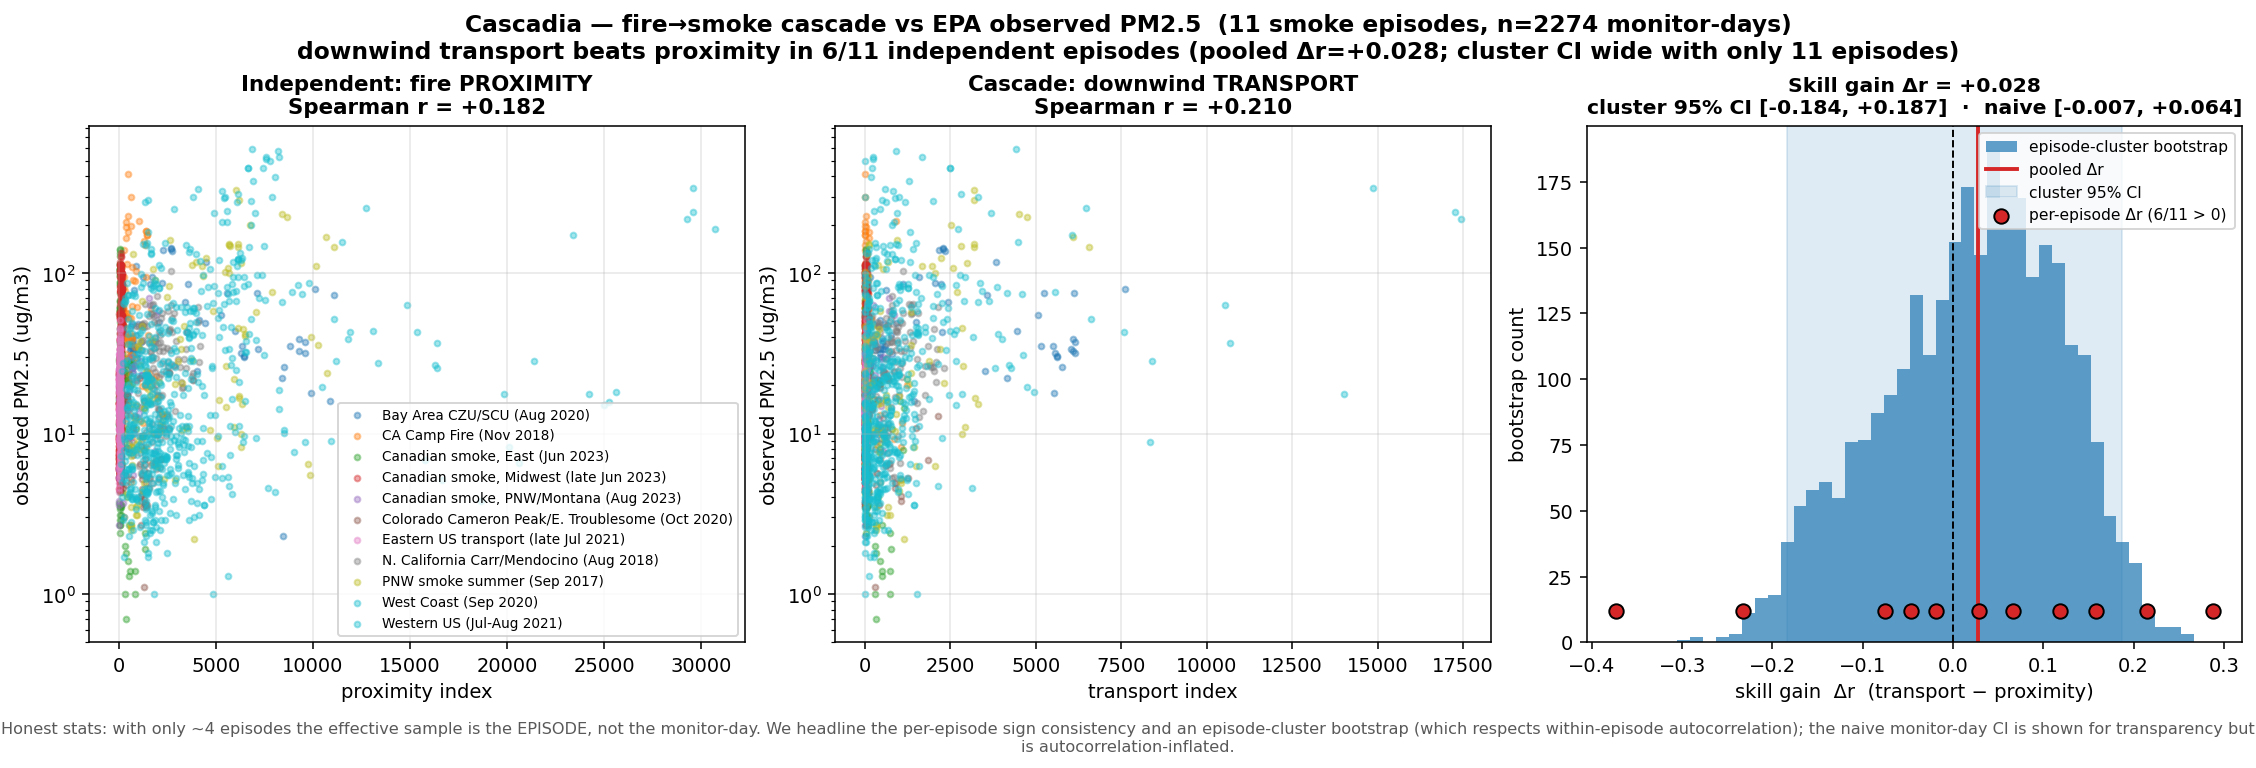
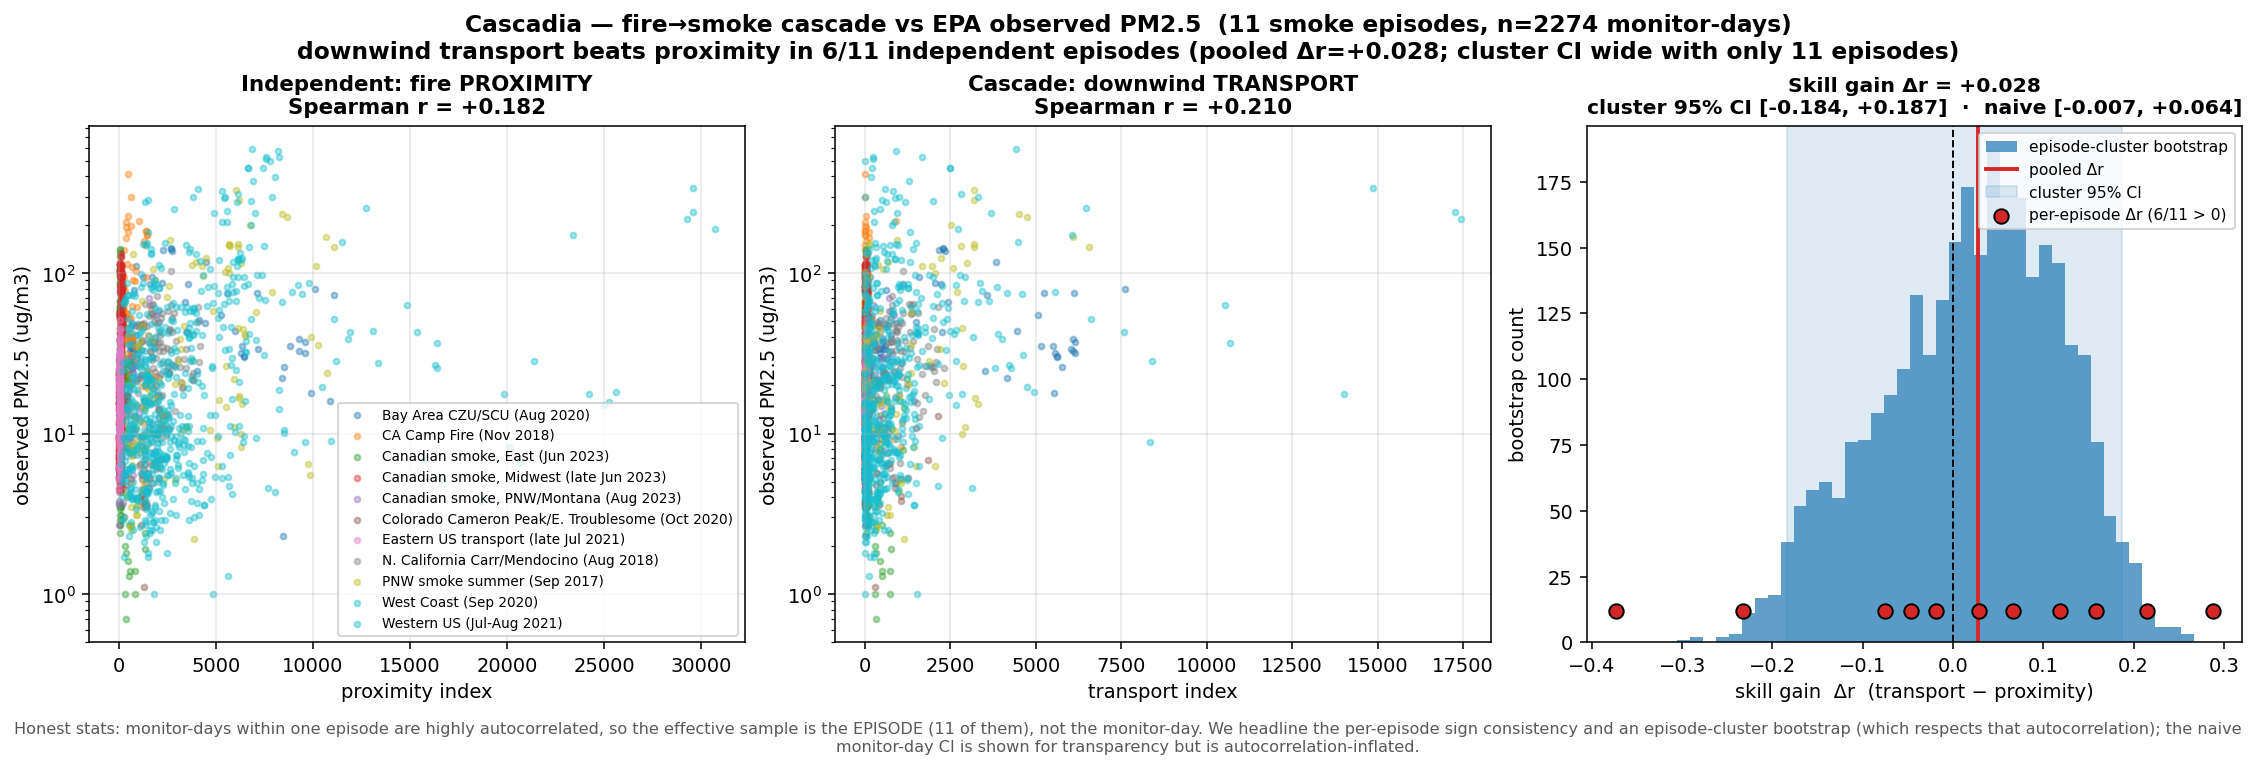
Cascade figure: dynamic episode count in caption (was hardcoded ~4, now 11)

Changed region(s): [[0.0, 0.9375, 1.0, 1.0]]

diff --git a/cascadia/skill_cascade.py b/cascadia/skill_cascade.py
@@ -238,10 +238,11 @@ def _render(df, res, boot_clu, deltas_ev, out_path):
     fig.suptitle(f"Cascadia — fire→smoke cascade vs EPA observed PM2.5  "
                  f"({res['n_events']} smoke episodes, n={res['n']} monitor-days)\n{head}",
                  fontsize=12, weight="bold")
-    fig.text(0.5, -0.02, "Honest stats: with only ~4 episodes the effective sample is the "
-             "EPISODE, not the monitor-day. We headline the per-episode sign consistency and "
-             "an episode-cluster bootstrap (which respects within-episode autocorrelation); "
-             "the naive monitor-day CI is shown for transparency but is autocorrelation-inflated.",
+    fig.text(0.5, -0.02, f"Honest stats: monitor-days within one episode are highly "
+             f"autocorrelated, so the effective sample is the EPISODE ({res['n_ev_valid']} of "
+             "them), not the monitor-day. We headline the per-episode sign consistency and an "
+             "episode-cluster bootstrap (which respects that autocorrelation); the naive "
+             "monitor-day CI is shown for transparency but is autocorrelation-inflated.",
              ha="center", va="top", fontsize=8.3, color="0.35", wrap=True)
     fig.savefig(out_path, dpi=140, bbox_inches="tight")
     plt.close(fig)